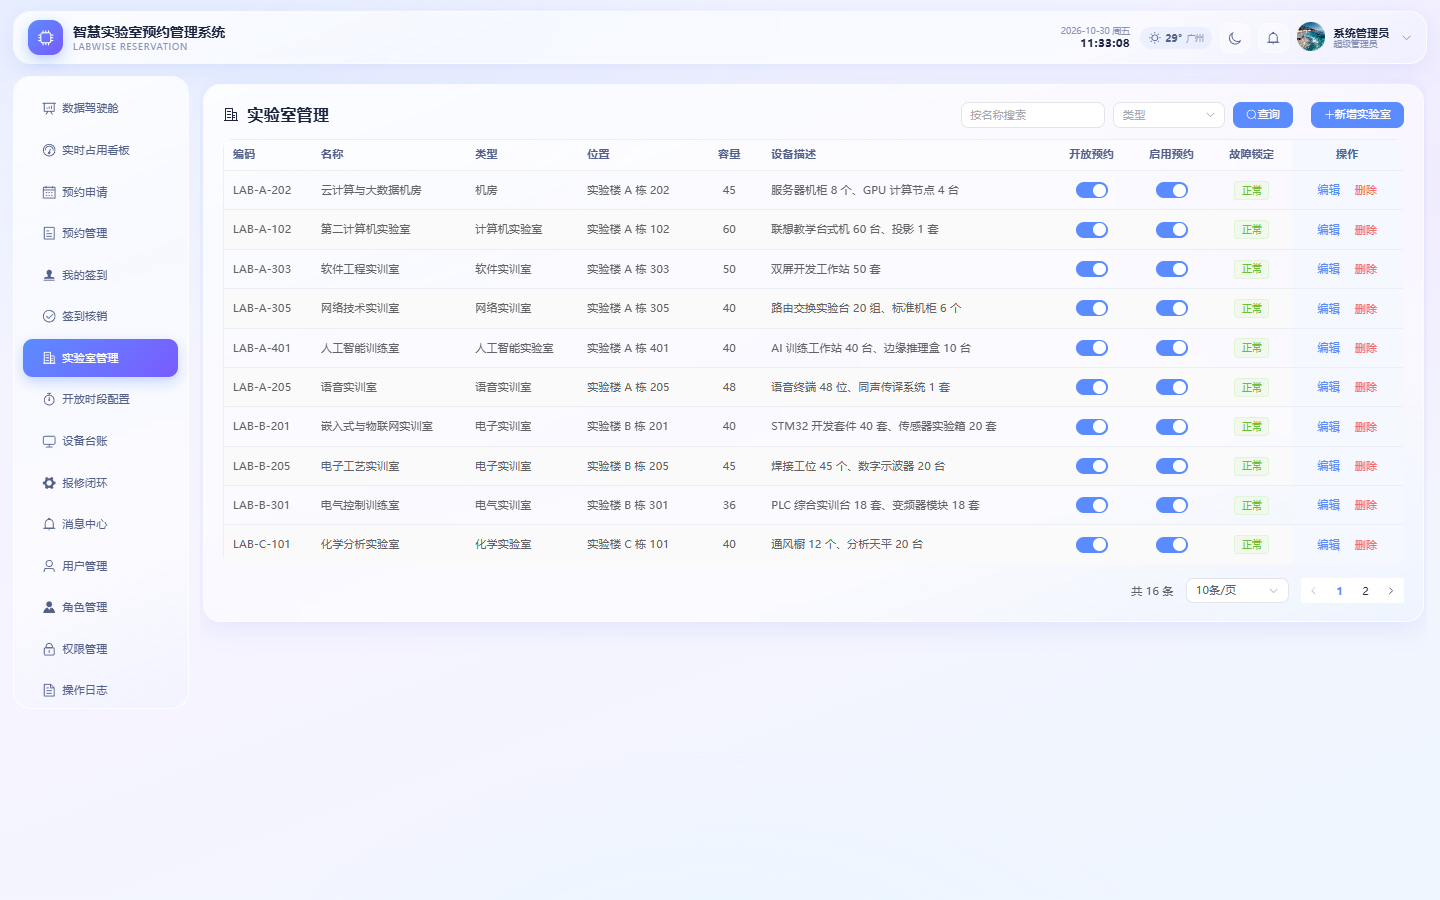
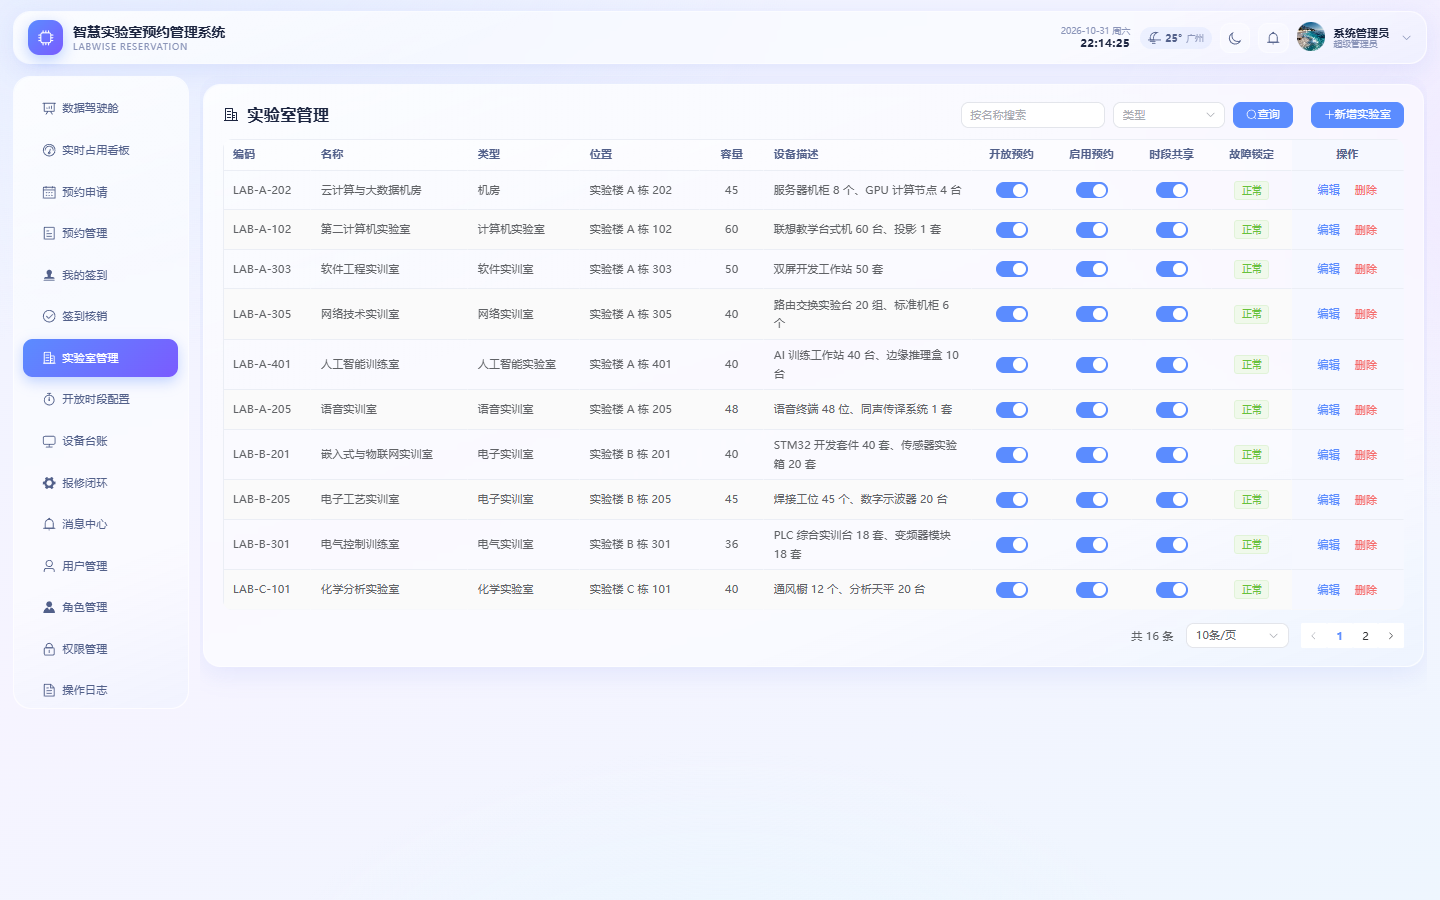
feat(lab): 实验室维度增加时段共享/整间独占开关

diff --git a/frontend/src/views/lab/info.vue b/frontend/src/views/lab/info.vue
@@ -22,7 +22,7 @@
         <el-table-column label="类型" prop="labType" width="140" />
         <el-table-column label="位置" prop="location" width="150" />
         <el-table-column label="容量" prop="capacity" width="80" align="center" />
-        <el-table-column label="设备描述" prop="equipmentDesc" min-width="340" />
+        <el-table-column label="设备描述" prop="equipmentDesc" min-width="240" />
         <el-table-column label="开放预约" width="100" align="center">
           <template #default="{ row }">
             <el-switch v-model="row.openStatus" :active-value="1" :inactive-value="0" @change="(v) => toggleOpen(row, v)" />
@@ -31,6 +31,11 @@
         <el-table-column label="启用预约" width="100" align="center">
           <template #default="{ row }">
             <el-switch v-model="row.enableReserve" :active-value="1" :inactive-value="0" @change="(v) => toggleReserve(row, v)" />
+          </template>
+        </el-table-column>
+        <el-table-column label="时段共享" width="100" align="center">
+          <template #default="{ row }">
+            <el-switch v-model="row.shareMode" :active-value="1" :inactive-value="0" @change="(v) => toggleShareMode(row, v)" />
           </template>
         </el-table-column>
         <el-table-column label="故障锁定" width="100" align="center">
@@ -62,6 +67,7 @@
             <span v-if="row.labType">{{ row.labType }}</span>
             <span v-if="row.location">位置：{{ row.location }}</span>
             <span>容量：{{ row.capacity }} 人</span>
+            <span>{{ row.shareMode === 0 ? '整间独占' : '按人数共享' }}</span>
           </div>
           <div v-if="row.equipmentDesc" class="lab-card__desc">{{ row.equipmentDesc }}</div>
           <div class="lab-card__switches">
@@ -72,6 +78,10 @@
             <div class="lab-card__switch">
               <span>启用预约</span>
               <el-switch v-model="row.enableReserve" :active-value="1" :inactive-value="0" size="small" @change="(v) => toggleReserve(row, v)" />
+            </div>
+            <div class="lab-card__switch">
+              <span>时段共享</span>
+              <el-switch v-model="row.shareMode" :active-value="1" :inactive-value="0" size="small" @change="(v) => toggleShareMode(row, v)" />
             </div>
           </div>
           <div class="lab-card__actions">
@@ -120,6 +130,10 @@
             <el-option v-for="u in managers" :key="u.id" :label="u.realName" :value="u.id" />
           </el-select>
         </el-form-item>
+        <el-form-item label="时段共享">
+          <el-switch v-model="form.shareMode" :active-value="1" :inactive-value="0" />
+          <span class="unit">关闭后该实验室同一时段只能被一单占用（整间独占）</span>
+        </el-form-item>
         <el-form-item label="设备描述">
           <el-input v-model="form.equipmentDesc" type="textarea" :rows="2" />
         </el-form-item>
@@ -137,7 +151,7 @@
 
 <script setup>
 import { ref, computed, onMounted, onUnmounted } from 'vue'
-import { labPage, labAdd, labEdit, labDelete, labOpen, labReserve, userOptions } from '@/api'
+import { labPage, labAdd, labEdit, labDelete, labOpen, labReserve, labShareMode, userOptions } from '@/api'
 import { useUserStore } from '@/store/user'
 
 // 窄屏（<=640px）用卡片列表替代宽表格，避免固定操作列把其它列挤出可视区
@@ -193,7 +207,7 @@ async function openEdit(row) {
   if (row) {
     form.value = { ...row }
   } else {
-    form.value = { labName: '', labCode: '', labType: '', location: '', capacity: 40, managerId: null, equipmentDesc: '', remark: '' }
+    form.value = { labName: '', labCode: '', labType: '', location: '', capacity: 40, managerId: null, equipmentDesc: '', remark: '', shareMode: 1 }
   }
   if (!managers.value.length) await loadManagers()
   editVisible.value = true
@@ -227,6 +241,11 @@ async function toggleOpen(row, v) {
 async function toggleReserve(row, v) {
   await labReserve(row.id, v)
   ElMessage.success(v === 1 ? '已启用预约' : '已停用预约')
+}
+
+async function toggleShareMode(row, v) {
+  await labShareMode(row.id, v)
+  ElMessage.success(v === 1 ? '已开启时段共享（按人数累计）' : '已改为整间独占（时段只允许一单）')
 }
 
 function doDelete(row) {

diff --git a/frontend/src/views/reservation/apply.vue b/frontend/src/views/reservation/apply.vue
@@ -275,6 +275,9 @@ const peopleMax = computed(() => {
 const peopleTip = computed(() => {
   const slot = selectedSlot.value
   if (!slot) return ''
+  if (slot.exclusive) {
+    return slot.occupied ? '该时段已被独占预约' : '该实验室为整间独占，该时段可整间预约'
+  }
   if (slot.remainingPeople == null) return `该时段人数不限，已约 ${slot.bookedPeople || 0} 人`
   if (slot.remainingPeople === 0) return '该时段已约满，请更换时段'
   return `该时段剩余可约 ${slot.remainingPeople} 人（已约 ${slot.bookedPeople || 0} 人）`
@@ -283,6 +286,7 @@ const peopleTip = computed(() => {
 // 时段下拉文案：带上剩余可约人数，让用户选时段时就能看到还能不能挤进去
 function slotLabel(s) {
   const base = `${s.slotName}  ${hhmm(s.startTime)}-${hhmm(s.endTime)}`
+  if (s.exclusive) return `${base}  ${s.occupied ? '已占用' : '整间独占'}`
   if (s.remainingPeople == null) return base
   return `${base}  ${s.remainingPeople > 0 ? `余 ${s.remainingPeople} 人` : '已满'}`
 }

diff --git a/frontend/src/api/index.js b/frontend/src/api/index.js
@@ -59,6 +59,8 @@ export const labOpen = (id, openStatus) =>
   request.put(`/lab/${id}/open`, null, { params: { openStatus } })
 export const labReserve = (id, enableReserve) =>
   request.put(`/lab/${id}/reserve`, null, { params: { enableReserve } })
+export const labShareMode = (id, shareMode) =>
+  request.put(`/lab/${id}/share-mode`, null, { params: { shareMode } })
 
 // 开放时段
 export const slotList = (labId) => request.get(`/lab/slot/${labId}`)

diff --git a/src/main/java/com/lab/reservation/serviceImpl/LabTimeSlotServiceImpl.java b/src/main/java/com/lab/reservation/serviceImpl/LabTimeSlotServiceImpl.java
@@ -119,6 +119,7 @@ public class LabTimeSlotServiceImpl implements LabTimeSlotService {
         // 剩余可约人数取决于「实验室容量」与「该时段人数上限」中更严格的一个
         LabInfo lab = labInfoMapper.selectById(labId);
         int labCapacity = lab == null || lab.getCapacity() == null ? 0 : lab.getCapacity();
+        boolean exclusive = lab != null && lab.isExclusive();
 
         // 对每个时段在内存中复用区间判定 + 并发峰值统计
         return slots.stream().map(slot -> {
@@ -128,17 +129,23 @@ public class LabTimeSlotServiceImpl implements LabTimeSlotService {
             vo.setStartTime(slot.getStartTime());
             vo.setEndTime(slot.getEndTime());
             vo.setMaxPeople(slot.getMaxPeople());
+            vo.setExclusive(exclusive);
 
             int booked = OccupancyCalculator.peakPeople(dayReservations,
                     slot.getStartTime(), slot.getEndTime());
             vo.setBookedPeople(booked);
-            vo.setReservationCount(dayReservations.stream()
+            long covered = dayReservations.stream()
                     .filter(r -> r.getStartTime().isBefore(slot.getEndTime())
                             && r.getEndTime().isAfter(slot.getStartTime()))
-                    .count());
+                    .count();
+            vo.setReservationCount(covered);
 
             int limit = peopleLimit(labCapacity, slot.getMaxPeople());
-            if (limit > 0) {
+            if (exclusive) {
+                // 整间独占：只要有任意一条相交预约，该时段即不可再约
+                vo.setOccupied(covered > 0);
+                vo.setRemainingPeople(covered > 0 ? 0 : (limit > 0 ? limit : null));
+            } else if (limit > 0) {
                 vo.setRemainingPeople(Math.max(0, limit - booked));
                 vo.setOccupied(vo.getRemainingPeople() == 0);
             } else {

diff --git a/src/main/java/com/lab/reservation/serviceImpl/LabInfoServiceImpl.java b/src/main/java/com/lab/reservation/serviceImpl/LabInfoServiceImpl.java
@@ -96,6 +96,9 @@ public class LabInfoServiceImpl implements LabInfoService {
         BeanUtils.copyProperties(dto, lab);
         lab.setOpenStatus(0);               // 新增默认未开放，由管理员开关
         lab.setEnableReserve(1);
+        if (lab.getShareMode() == null) {
+            lab.setShareMode(1);            // 默认按人数共享
+        }
         labInfoMapper.insert(lab);
     }
 
@@ -115,6 +118,9 @@ public class LabInfoServiceImpl implements LabInfoService {
             throw new BusinessException(ResultCode.DATA_EXISTS, "实验室编号已存在");
         }
         BeanUtils.copyProperties(dto, lab);
+        if (lab.getShareMode() == null) {
+            lab.setShareMode(1);
+        }
         OptimisticLockGuard.check(labInfoMapper.updateById(lab), "该实验室");
     }
 
@@ -156,6 +162,19 @@ public class LabInfoServiceImpl implements LabInfoService {
             throw new BusinessException(ResultCode.PARAM_ERROR, "预约开关不合法");
         }
         lab.setEnableReserve(enableReserve);
+        OptimisticLockGuard.check(labInfoMapper.updateById(lab), "该实验室");
+    }
+
+    @Override
+    public void toggleShareMode(Long id, Integer shareMode) {
+        LabInfo lab = labInfoMapper.selectById(id);
+        if (lab == null) {
+            throw new BusinessException(ResultCode.NOT_FOUND, "实验室不存在");
+        }
+        if (shareMode != 0 && shareMode != 1) {
+            throw new BusinessException(ResultCode.PARAM_ERROR, "占用模式不合法");
+        }
+        lab.setShareMode(shareMode);
         OptimisticLockGuard.check(labInfoMapper.updateById(lab), "该实验室");
     }
 

diff --git a/src/test/java/com/lab/reservation/serviceImpl/ReservationServiceImplTest.java b/src/test/java/com/lab/reservation/serviceImpl/ReservationServiceImplTest.java
@@ -331,6 +331,30 @@ class ReservationServiceImplTest {
         }
 
         @Test
+        @DisplayName("整间独占实验室时段相交即拒绝，即使人数远未超容量")
+        void exclusiveLabRejectsOverlap() {
+            LabInfo lab = openLab(60);
+            lab.setShareMode(0);
+            when(labInfoMapper.selectById(LAB_ID)).thenReturn(lab);
+            when(labTimeSlotMapper.selectList(any())).thenReturn(List.of(slot(8, 0, 9, 40)));
+            when(deviceMapper.selectFaultDevicesByLabId(LAB_ID)).thenReturn(List.of());
+            LabReservation existing = otherReservation(1);
+            existing.setReservationNo("RSV20260101000000DDDD");
+            when(reservationMapper.selectConflictingReservations(
+                    any(), any(), any(), any(), any(), any())).thenReturn(List.of(existing));
+
+            ReservationSubmitDTO dto = validDto();
+            dto.setPeopleCount(3);
+
+            BusinessException e = assertThrows(BusinessException.class,
+                    () -> reservationService.submit(dto));
+
+            assertEquals(ResultCode.RESERVATION_CONFLICT.getCode(), e.getCode());
+            assertTrue(e.getMessage().contains("整间独占"));
+            assertTrue(e.getMessage().contains("RSV20260101000000DDDD"));
+        }
+
+        @Test
         @DisplayName("同一用户在同一实验室同一时段不能重复预约")
         void sameUserDuplicate() {
             when(labInfoMapper.selectById(LAB_ID)).thenReturn(openLab(60));

diff --git a/src/main/java/com/lab/reservation/serviceImpl/ReservationServiceImpl.java b/src/main/java/com/lab/reservation/serviceImpl/ReservationServiceImpl.java
@@ -163,7 +163,15 @@ public class ReservationServiceImpl implements ReservationService {
                     "你在该时段已有预约（单号 " + mine.getReservationNo() + "），请先取消后再预约");
         }
 
-        // 4.2 已占用人数取「区间内的并发峰值」：互相错开的两单不应被简单相加
+        // 4.2 整间独占的实验室不参与共享：时段相交即视为冲突
+        if (lab.isExclusive() && !overlapping.isEmpty()) {
+            LabReservation first = overlapping.get(0);
+            throw new BusinessException(ResultCode.RESERVATION_CONFLICT,
+                    "该实验室为整间独占模式，该时段已被占用（单号 " + first.getReservationNo()
+                            + "，状态 " + ReservationStatus.of(first.getStatus()).getDesc() + "）");
+        }
+
+        // 4.3 已占用人数取「区间内的并发峰值」：互相错开的两单不应被简单相加
         int booked = OccupancyCalculator.peakPeople(overlapping, dto.getStartTime(), dto.getEndTime());
         assertRemaining("实验室容量", labCapacity, booked, dto.getPeopleCount());
         if (slotLimit > 0) {

diff --git a/src/main/java/com/lab/reservation/controller/LabInfoController.java b/src/main/java/com/lab/reservation/controller/LabInfoController.java
@@ -102,4 +102,13 @@ public class LabInfoController {
         labInfoService.toggleReserve(id, enableReserve);
         return Result.success("操作成功", null);
     }
+
+    @Operation(summary = "切换时段占用模式（可共享/整间独占）")
+    @PutMapping("/{id}/share-mode")
+    @OperationLog(module = "实验室管理", businessType = "update", description = "切换时段占用模式")
+    @PreAuthorize("hasAuthority('system:lab:edit')")
+    public Result<Void> toggleShareMode(@PathVariable Long id, @RequestParam Integer shareMode) {
+        labInfoService.toggleShareMode(id, shareMode);
+        return Result.success("操作成功", null);
+    }
 }

diff --git a/src/main/java/com/lab/reservation/entity/LabInfo.java b/src/main/java/com/lab/reservation/entity/LabInfo.java
@@ -48,9 +48,17 @@ public class LabInfo extends BaseEntity {
     /** 是否可预约：1可预约 0禁止预约（管控） */
     private Integer enableReserve;
 
+    /** 时段占用模式：1可多人共享 0整间独占（独占时时段相交即拒绝） */
+    private Integer shareMode;
+
     /** 封面图 */
     private String coverUrl;
 
     /** 备注 */
     private String remark;
+
+    /** 是否整间独占：独占模式下时段相交即冲突，不按人数共享 */
+    public boolean isExclusive() {
+        return shareMode != null && shareMode == 0;
+    }
 }

diff --git a/src/main/java/com/lab/reservation/vo/AvailableSlotVO.java b/src/main/java/com/lab/reservation/vo/AvailableSlotVO.java
@@ -36,6 +36,9 @@ public class AvailableSlotVO {
     @Schema(description = "剩余可约人数；null 表示不限人数")
     private Integer remainingPeople;
 
+    @Schema(description = "是否整间独占：独占实验室时段相交即不可再约")
+    private Boolean exclusive;
+
     @Schema(description = "是否已约满（剩余可约人数为 0）")
     private Boolean occupied;
 

diff --git a/src/main/java/com/lab/reservation/vo/LabInfoVO.java b/src/main/java/com/lab/reservation/vo/LabInfoVO.java
@@ -47,6 +47,9 @@ public class LabInfoVO {
     @Schema(description = "是否启用预约功能：0否 1是")
     private Integer enableReserve;
 
+    @Schema(description = "时段占用模式：1可多人共享 0整间独占")
+    private Integer shareMode;
+
     @Schema(description = "备注")
     private String remark;
 

diff --git a/src/main/java/com/lab/reservation/dto/LabInfoDTO.java b/src/main/java/com/lab/reservation/dto/LabInfoDTO.java
@@ -44,6 +44,9 @@ public class LabInfoDTO {
     @Schema(description = "封面图URL")
     private String coverUrl;
 
+    @Schema(description = "时段占用模式：1可多人共享 0整间独占")
+    private Integer shareMode;
+
     @Schema(description = "备注")
     private String remark;
 }
